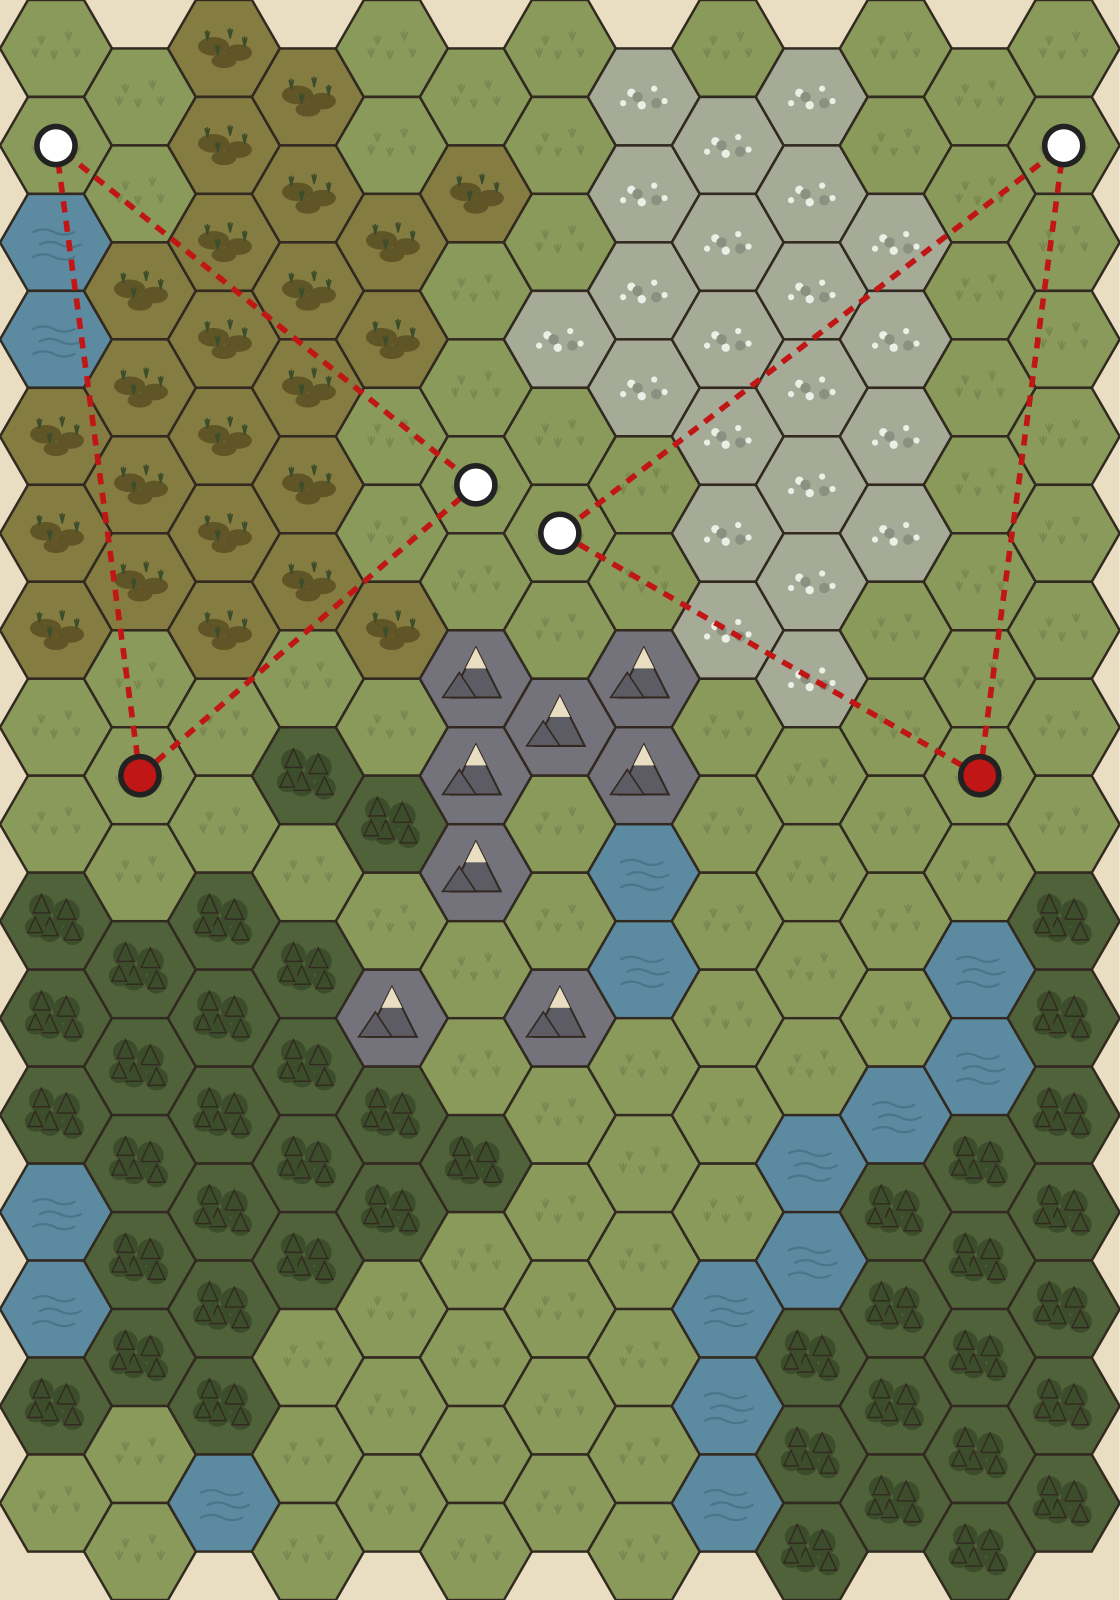
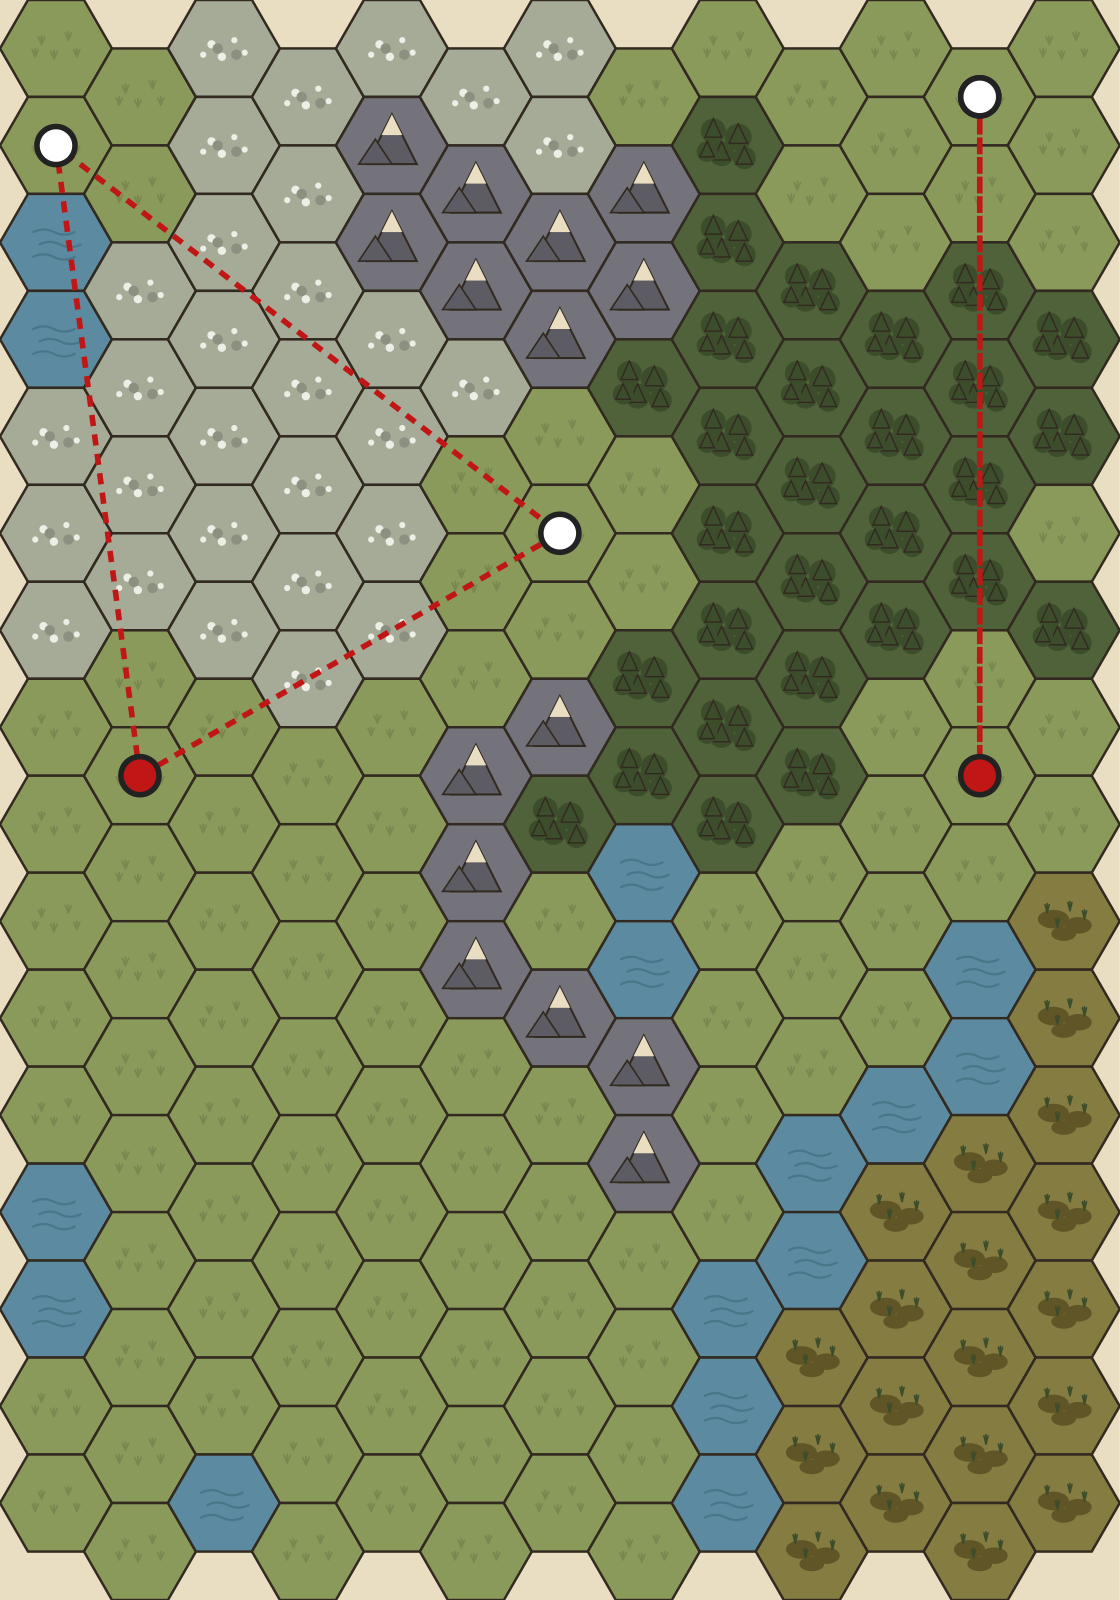
v0.4.9.3: wiki + reference pages, Mill merge, Cipher Chamber

diff --git a/Combatv3/mapgen/mapgen.py b/Combatv3/mapgen/mapgen.py
@@ -323,21 +323,24 @@ def _place_regions(m, p, rng):
     buildable = lambda c: (m.in_bounds(c)
                            and m.get(c).terrain not in ("water", "mountain"))
     m.settlements, m.centers = [], []
+    placed_all = []                       # every settlement across regions (spacing)
 
     for rid, (a, (fx, fy)) in enumerate(zip(anchors, fracs)):
-        # settlement targets: [capital, s2, s3].
-        #  - corner region  -> all three aim at the board corner (cornered cluster)
-        #  - edge region     -> capital at the EDGE CENTRE, s2/s3 splayed toward
-        #                       that edge's two corners
-        #  - centre region   -> all three aim at the anchor
-        vmid = abs(fy - 0.5) < 0.12          # mid-height  -> left/right edge
-        hmid = abs(fx - 0.5) < 0.12          # mid-width   -> top/bottom edge
+        # settlement targets: [capital, corner-settle, centre-settle].
+        #  - edge region (left/right or top/bottom mid): capital at the EDGE
+        #    CENTRE, one settlement toward the near corner, one toward the board
+        #    centre (the two players meet in the middle).
+        #  - corner region: all three aim at the board corner (cornered cluster).
+        #  - dead-centre region: all three aim at the anchor.
+        cx0, cy0 = m.width // 2, m.height // 2
+        vmid = abs(fy - 0.5) < 0.12          # mid-height -> left/right edge
+        hmid = abs(fx - 0.5) < 0.12          # mid-width  -> top/bottom edge
         if vmid and not hmid:
             ex = 0 if fx < 0.5 else m.width - 1
-            targets = [(ex, m.height // 2), (ex, 0), (ex, m.height - 1)]
+            targets = [(ex, cy0), (ex, 0), (cx0, cy0)]
         elif hmid and not vmid:
             ey = 0 if fy < 0.5 else m.height - 1
-            targets = [(m.width // 2, ey), (0, ey), (m.width - 1, ey)]
+            targets = [(cx0, ey), (0, ey), (cx0, cy0)]
         elif vmid and hmid:
             targets = [a, a, a]
         else:
@@ -355,11 +358,12 @@ def _place_regions(m, p, rng):
             m.get(c).terrain = "plains"
 
         def pick(existing, target):
-            # buildable hex within [SEP, SMAX] of every existing settlement,
-            # nearest `target` so each settlement pulls toward its own corner.
+            # buildable hex within [SEP, SMAX] of this region's settlements AND
+            # >= SEP from every other region's settlement; nearest `target`.
             cells = [h.coord for h in m.all()
                      if buildable(h.coord)
-                     and all(SEP <= distance(h.coord, o) <= SMAX for o in existing)]
+                     and all(SEP <= distance(h.coord, o) <= SMAX for o in existing)
+                     and all(distance(h.coord, o) >= SEP for o in placed_all)]
             return min(cells, key=lambda c: distance(c, target) + rng.random()) if cells else None
 
         s2 = pick([cap], t2)
@@ -380,6 +384,7 @@ def _place_regions(m, p, rng):
                   round(sum(s[1] for s in settles) / 3))
         m.settlements.append(settles)
         m.centers.append(center)
+        placed_all.extend(settles)
 
         # keep each settlement spot open (1-hex ring) so it isn't buried
         for s in settles:
